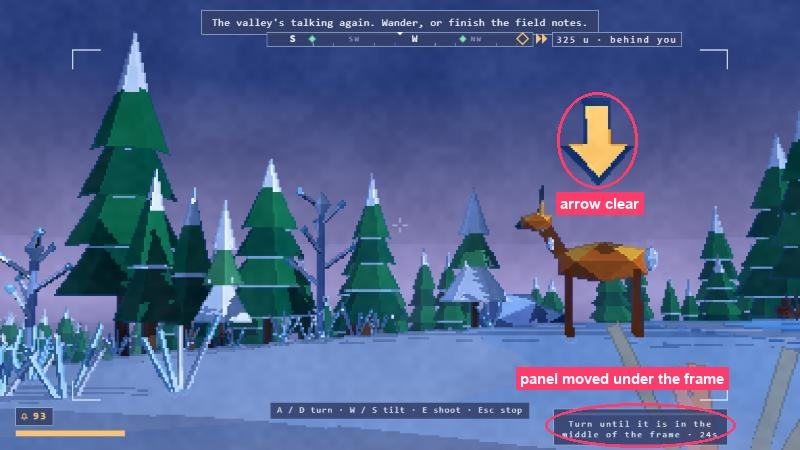
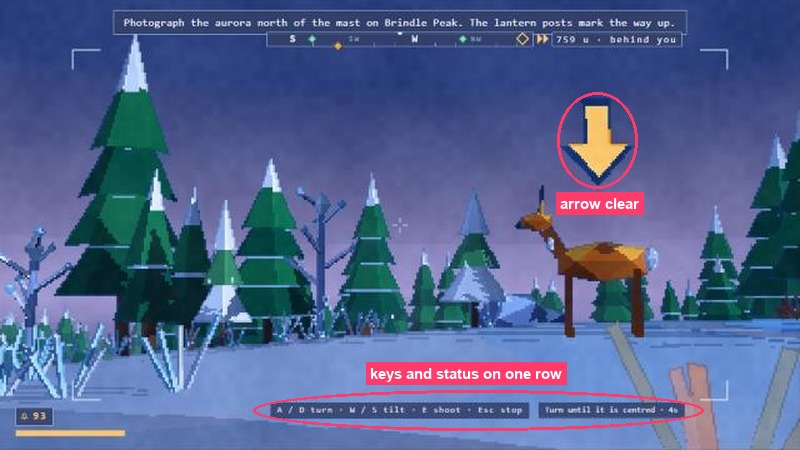
Round-6 picks, part two: a real caught fish, Gus's brass bell with an aiming ring, photo panel on the keys row
- The catch is a fish silhouette (rounded body, forked tail, tall back fin) about 1.5 units long, in
  natural colours: darker bodies, one fin colour each. It was a diamond and a cone in pale grey.
- The hamlet bell is a brass bell turned from a profile, hung from the crossbar; while aiming Bell Ring
  a lit ring stands round it. The start crate and flag move to the other side of the throw line,
  where they no longer stand in front of the bell.
- In photo mode the activity panel sits on the keys bar's row at its height, one line; "Turn until it
  is centred" replaces the longer turn line so every photo status fits beside the bar at 960 wide.

diff --git a/review/round-6/index.html b/review/round-6/index.html
@@ -50,45 +50,18 @@
 </head>
 <body>
 <main>
-  <h1>Round 6 look: your answers, acted on</h1>
-  <p class="lede">Real captures from the game at 960×540. Pink circles mark where to look. "After" is built into the game; "Proposed" is a live mock running in the game, not built yet. Click any image to enlarge.</p>
+  <h1>Round 6 look: all seven settled</h1>
+  <p class="lede">Real captures from the game at 960×540. Pink circles mark where to look. Every "After" is built into the game and pushed. Click any image to enlarge.</p>
 
   <div class="status">
-    <div><b>Built</b>1 panel no longer covers the arrow · 3 bigger gem · 4 photo frame hidden while shooting</div>
-    <div><b>Needs your eye</b>5 the fish (new mock) · 6 the bell (new mock, with a correction)</div>
-    <div><b>Closed</b>2 glow: proposal withdrawn · 7 ridge: left as is</div>
+    <div><b>Built</b>1 panel on the keys row · 3 bigger gem · 4 photo frame hidden · 5 fish shape · 6 brass bell + ring</div>
+    <div><b>Closed</b>2 glow: kept as it was · 7 ridge: left as is</div>
+    <div><b>Needs your eye</b>Nothing</div>
   </div>
 
-  <h2>Needs your eye</h2>
-
   <section class="item">
-    <div class="head"><h3>5. The fish you catch</h3><span class="where">Creek Pool, Pinewind, a grayling</span></div>
-    <p class="what">You're right that none of the old shots looked like a fish. That's the problem. When you land one, it hangs from the line beside Pip, but it's built from a stretched diamond and a cone for a tail, in one flat grey. It reads as two loose shapes. (The white ring is the ripple on the water.) The last mock only changed the colours, so it still didn't look like a fish.</p>
-    <div class="grid">
-      <figure><img src="p5-now.jpg" alt=""><figcaption>Now <span>— diamond + cone, flat grey</span></figcaption></figure>
-      <figure><img src="p5-proposed.jpg" alt=""><figcaption>Proposed <span>— fish silhouette: rounded body, forked tail, tall back fin, eye</span></figcaption></figure>
-    </div>
-    <div class="ask"><b>My pick: Proposed.</b> Every fish gets the same shape, in its own colours: a darker body with one strong fin colour (char orange, pike green, the ghost trout pale with a teal fin). I'd also shrink it about a fifth, since it's a little big beside Pip.</div>
-  </section>
-
-  <section class="item">
-    <div class="head"><h3>6. The bell you throw at</h3><span class="where">Bell Ring, Hamlet square</span></div>
-    <p class="fix"><b>Correction:</b> last time I said the bell was the red shape. It isn't. The red triangle is the Bell Ring's start flag. The bell is the tiny yellow dot under the crossbar at the top of the post, and the flag stands right in front of it.</p>
-    <p class="what"><b>What Bell Ring is:</b> a throwing game in the square. You turn with A/D (the dotted line shows your throw) and press E to throw a snowball at the bell; one hit rings it. The critic couldn't tell what they were aiming at.</p>
-    <div class="grid">
-      <figure><img src="p6-now.jpg" alt=""><figcaption>Now <span>— bell is a dot; flag in front of it</span></figcaption></figure>
-      <figure><img src="p6-a.jpg" alt=""><figcaption>Proposed A <span>— a real brass bell, bigger; flag moved aside</span></figcaption></figure>
-      <figure><img src="p6-b.jpg" alt=""><figcaption>Proposed B <span>— A, plus a lit ring round the bell</span></figcaption></figure>
-    </div>
-    <p class="what" style="margin-top:10px"><b>About the ring:</b> it shows only while you're playing Bell Ring, to say "this is the target", and goes away when you stop. Walking round the square, you'd just see the brass bell. The snowman build already uses a lit ring the same way.</p>
-    <div class="ask"><b>My pick: B.</b> A alone makes the bell readable; the ring makes it unmissable at dusk, when the bell is darkest.</div>
-  </section>
-
-  <h2>Built</h2>
-
-  <section class="item">
-    <div class="head"><h3>1. Activity panel clipping the photo arrow</h3><span class="where">Hoarfrost Glade photo, Pinewind</span></div>
-    <p class="what">While you aim a photo, the panel now sits under the frame's bottom-right corner and shows only the running line. "Esc stop" moved onto the keys line. The frame itself is clear.</p>
+    <div class="head"><h3>1. Activity panel while taking a photo</h3><span class="where">Hoarfrost Glade photo, Pinewind</span></div>
+    <p class="what">The panel now sits on the same row as the keys bar, at the same height, right beside it. It shows only the running line; "Esc stop" is on the keys bar. To fit one line at this window size, "Turn until it is in the middle of the frame" became "Turn until it is centred".</p>
     <div class="grid">
       <figure><img src="p1-before.jpg" alt=""><figcaption>Before</figcaption></figure>
       <figure><img src="p1-after.jpg" alt=""><figcaption>After</figcaption></figure>
@@ -96,8 +69,25 @@
   </section>
 
   <section class="item">
+    <div class="head"><h3>5. The fish you catch</h3><span class="where">Creek Pool, Pinewind, a grayling</span></div>
+    <p class="what">A real fish shape (rounded body, forked tail, tall back fin, eye), about a third smaller than the mock so it sits below Pip's size. Natural colours, no purple: each fish has a darker body and one fin colour of its own. The grayling is grey with its rose back fin, the char brown with an orange fin, the pike green, the smelt silver-blue. The ghost trout stays pale with a teal fin.</p>
+    <div class="grid">
+      <figure><img src="p5-now.jpg" alt=""><figcaption>Before</figcaption></figure>
+      <figure><img src="p5-after.jpg" alt=""><figcaption>After</figcaption></figure>
+    </div>
+  </section>
+
+  <section class="item">
+    <div class="head"><h3>6. The bell you throw at</h3><span class="where">Bell Ring, Hamlet square</span></div>
+    <p class="what">Option B as you picked: a brass bell hung from the crossbar, a lit ring round it only while you're playing Bell Ring, and the start flag moved to the other side so it no longer stands in front of the bell.</p>
+    <div class="grid">
+      <figure><img src="p6-now.jpg" alt=""><figcaption>Before</figcaption></figure>
+      <figure><img src="p6-after.jpg" alt=""><figcaption>After</figcaption></figure>
+    </div>
+  </section>
+
+  <section class="item">
     <div class="head"><h3>3. Bigger green gem over things to do</h3><span class="where">Hamlet, dusk</span></div>
-    <p class="what">Built as you picked: 1.7× the size and brighter.</p>
     <div class="grid">
       <figure><img src="p3-before.jpg" alt=""><figcaption>Before</figcaption></figure>
       <figure><img src="p3-after.jpg" alt=""><figcaption>After</figcaption></figure>
@@ -106,27 +96,15 @@
 
   <section class="item">
     <div class="head"><h3>4. Photo spot's frame post hidden while shooting</h3><span class="where">Aurora photo, Brindle Peak</span></div>
-    <p class="what">Built for every photo spot. The post comes back as soon as the photo closes. (The panel has also moved out of the frame, from item 1.)</p>
     <div class="grid">
       <figure><img src="aurora-now.jpg" alt=""><figcaption>Before</figcaption></figure>
       <figure><img src="aurora-built.jpg" alt=""><figcaption>After</figcaption></figure>
     </div>
   </section>
 
-  <h2>Closed</h2>
-
   <section class="item">
-    <div class="head"><h3>2. Pip's lantern glow</h3></div>
-    <p class="what">You're right: the proposal looked the same as the current glow at normal distance. The face hotspot it was meant to fix doesn't show from the usual camera angle either, so I've dropped it. The glow stays as built.</p>
-    <div class="grid">
-      <figure><img src="glow-before.jpg" alt=""><figcaption>Before rounds 5–6</figcaption></figure>
-      <figure><img src="glow-after.jpg" alt=""><figcaption>Now (kept)</figcaption></figure>
-    </div>
-  </section>
-
-  <section class="item">
-    <div class="head"><h3>7. Windscar Ridge face</h3></div>
-    <p class="what">Left as is.</p>
+    <div class="head"><h3>2. Pip's lantern glow · 7. Windscar Ridge face</h3></div>
+    <p class="what">Both left as they are.</p>
   </section>
 </main>
 <dialog id="big"><img alt=""></dialog>

diff --git a/src/game/world/activityMarkers.ts b/src/game/world/activityMarkers.ts
@@ -66,6 +66,44 @@ function mittenGeometry(): THREE.BufferGeometry {
   return new THREE.ExtrudeGeometry(s, { depth: 0.16, bevelEnabled: false }).translate(0, 0, -0.08);
 }
 
+/**
+ * The catch's size against its 1.9 marker scale: about one and a half units nose to tail, smaller than
+ * Pip. A diamond and a cone used to stand in for it and read as two loose shapes (director, round 6 look).
+ */
+const FISH_K = 0.75;
+
+/** A fish side-on: rounded body, narrow wrist, forked tail. Nose along +Z, flanks facing +-X. */
+function fishGeometry(): THREE.BufferGeometry {
+  const s = new THREE.Shape();
+  s.moveTo(0.5, 0);
+  s.quadraticCurveTo(0.44, 0.17, 0.15, 0.2);
+  s.quadraticCurveTo(-0.14, 0.2, -0.32, 0.06);
+  s.lineTo(-0.52, 0.22);
+  s.lineTo(-0.45, 0);
+  s.lineTo(-0.52, -0.2);
+  s.lineTo(-0.32, -0.05);
+  s.quadraticCurveTo(-0.1, -0.17, 0.15, -0.16);
+  s.quadraticCurveTo(0.42, -0.13, 0.5, 0);
+  return new THREE.ExtrudeGeometry(s, {
+    depth: 0.06, bevelEnabled: true, bevelThickness: 0.05, bevelSize: 0.025, bevelSegments: 2, curveSegments: 6,
+  }).translate(0, 0, -0.03).scale(FISH_K, FISH_K, FISH_K).rotateY(-Math.PI / 2);
+}
+
+/**
+ * The tall back fin, in the fish's accent colour. catchMarkers places it 0.55 behind the body's middle
+ * (where the old tail cone hung), so it is drawn 0.55 forward of its own origin to sit on the back.
+ */
+function finGeometry(): THREE.BufferGeometry {
+  const s = new THREE.Shape();
+  s.moveTo(0.2, 0.15);
+  s.lineTo(0.1, 0.44);
+  s.lineTo(-0.14, 0.38);
+  s.lineTo(-0.2, 0.14);
+  s.closePath();
+  return new THREE.ExtrudeGeometry(s, { depth: 0.03, bevelEnabled: false })
+    .translate(0, 0, -0.015).scale(FISH_K, FISH_K, FISH_K).rotateY(-Math.PI / 2).translate(0, 0, 0.55);
+}
+
 interface Prototype {
   geometry: THREE.BufferGeometry;
   color: string;
@@ -92,8 +130,8 @@ const PROTOTYPES: Readonly<Record<MarkerShape | TransientLook, Prototype>> = {
   // A crest light for the kite: big enough to read at twenty metres, a cold blue until it is cleared.
   beacon: { geometry: new THREE.OctahedronGeometry(0.42, 0), color: PALETTE.LANTERN, dim: PALETTE.SNOW_NIGHT, lift: 0 },
   // A caught fish, nose along +Z; its colours come from the journal's own table (spec.color).
-  fish: { geometry: new THREE.OctahedronGeometry(1, 0).scale(0.12, 0.26, 0.5), color: PALETTE.ROCK_LT, lift: 0 },
-  fin: { geometry: new THREE.ConeGeometry(0.24, 0.32, 3).rotateX(-Math.PI / 2).scale(0.3, 1, 1), color: PALETTE.ROCK_MID, lift: 0 },
+  fish: { geometry: fishGeometry(), color: PALETTE.ROCK_LT, lift: 0 },
+  fin: { geometry: finGeometry(), color: PALETTE.ROCK_MID, lift: 0 },
   // A wind line rising in the kite's lift: thin and upright, a blue that reads on snow and on sky.
   streak: { geometry: new THREE.BoxGeometry(0.1, 1.3, 0.1), color: PALETTE.SNOW_NIGHT, dim: PALETTE.SNOW_SH, lift: 0 },
   // A ring laid flat on the snow round a photo's subject, so "it" is the thing standing in it.

diff --git a/src/styles/photo.css b/src/styles/photo.css
@@ -37,16 +37,20 @@
 #ui:has(.ui-finder:not([hidden])) .ui-hud__next { visibility: hidden; }
 
 /* The activity panel leaves the frame too: at the top right it covered the subject's arrow whenever the
-   subject stood up and to the right (director, round 6 look). Under the frame's bottom-right corner it
-   keeps only the running line; the name is on the prompt you pressed, and Esc joins the keys. */
+   subject stood up and to the right (director, round 6 look). It joins the keys bar on the same row,
+   same height, starting just right of it (the bar is ~310px wide), and keeps only the running line;
+   the name is on the prompt you pressed, Esc is on the keys, and the timer runs along its bottom edge.
+   Every photo line fits on one row beside the bar at 960 wide. */
 #ui:has(.ui-finder:not([hidden])) .ui-activity {
-  top: auto; right: 9%; bottom: 6px; min-width: 0; max-width: 210px; padding: 4px 10px 5px;
+  top: auto; right: auto; left: calc(50% + 166px); bottom: calc(11% - 22px);
+  min-width: 0; max-width: none; padding: 2px 8px; border: 0; text-align: left;
 }
 #ui:has(.ui-finder:not([hidden])) .ui-activity__kicker,
 #ui:has(.ui-finder:not([hidden])) .ui-activity__name,
 #ui:has(.ui-finder:not([hidden])) .ui-activity__hint,
 #ui:has(.ui-finder:not([hidden])) .ui-activity__foot { display: none; }
-#ui:has(.ui-finder:not([hidden])) .ui-activity__label { margin-top: 4px; font-size: 10px; line-height: 1.3; }
+#ui:has(.ui-finder:not([hidden])) .ui-activity__label { margin: 0; font-size: 10px; line-height: 1.55; letter-spacing: 0; white-space: nowrap; }
+#ui:has(.ui-finder:not([hidden])) .ui-activity__track { position: absolute; left: 0; right: 0; bottom: 0; height: 2px; }
 
 /* Under the frame's bottom edge: over its top edge, the keys sat on the compass (critic round 6). */
 .ui-finder__keys {

diff --git a/src/data/fish.ts b/src/data/fish.ts
@@ -6,12 +6,14 @@
 import type { FishDef } from '../core/contracts';
 
 export const FISH: readonly FishDef[] = [
-  { id: 'smelt', name: 'Silver Smelt', rarity: 'common', value: 3, body: '#9fb4c2', accent: '#e6eef2' },
-  { id: 'char', name: 'Arctic Char', rarity: 'common', value: 4, body: '#8f6a5a', accent: '#e8a06a' },
-  { id: 'grayling', name: 'Grayling', rarity: 'common', value: 5, body: '#7d8a94', accent: '#b9c9d2' },
-  { id: 'burbot', name: 'Burbot', rarity: 'uncommon', value: 8, body: '#6b6350', accent: '#c9b98a' },
-  { id: 'pike', name: 'Lake Pike', rarity: 'rare', value: 14, body: '#4f6b52', accent: '#a8c08a' },
-  { id: 'ghost-trout', name: 'Ghost Trout', rarity: 'rare', value: 16, body: '#c9d6dd', accent: '#f2f8fa' },
+  // Bodies dark enough to stand off snow and ice, each with one fin colour of its own: pale grey bodies
+  // with near-white fins vanished against the pool (critic round 7). The ghost trout stays pale on purpose.
+  { id: 'smelt', name: 'Silver Smelt', rarity: 'common', value: 3, body: '#7f98a8', accent: '#d2e2ec' },
+  { id: 'char', name: 'Arctic Char', rarity: 'common', value: 4, body: '#5e4a3e', accent: '#e8763a' },
+  { id: 'grayling', name: 'Grayling', rarity: 'common', value: 5, body: '#5a646e', accent: '#b0566e' },
+  { id: 'burbot', name: 'Burbot', rarity: 'uncommon', value: 8, body: '#5b5240', accent: '#c9b98a' },
+  { id: 'pike', name: 'Lake Pike', rarity: 'rare', value: 14, body: '#41603f', accent: '#b4c98a' },
+  { id: 'ghost-trout', name: 'Ghost Trout', rarity: 'rare', value: 16, body: '#b9c9d2', accent: '#6fc8c0' },
 ];
 
 /**

diff --git a/src/game/world/landmarks.ts b/src/game/world/landmarks.ts
@@ -21,6 +21,16 @@ import { icedBoat } from './boat';
 import type { Collider } from '../../core/player/collide';
 import { BIRD_BULK } from './birdBulk';
 
+/**
+ * Gus's bell: a brass bell's profile turned round its axis, mouth down, about 0.9 tall. It was a small
+ * lantern-coloured diamond, and from the throwing spot it read as a light on the post, not a bell.
+ */
+const BELL_SHAPE = new THREE.LatheGeometry(
+  ([[0, 0.55], [0.1, 0.54], [0.19, 0.47], [0.23, 0.3], [0.26, 0.08], [0.33, -0.06], [0.42, -0.14], [0.42, -0.17], [0, -0.17]] as const)
+    .map(([r, y]) => new THREE.Vector2(r, y)),
+  8,
+).toNonIndexed();
+
 export const LANDMARKS: readonly { id: string; x: number; z: number }[] = [
   { id: 'station', x: -352, z: 352 },
   { id: 'trucknow', x: -300, z: 300 },
@@ -151,7 +161,8 @@ function hamlet(sampler: TerrainSampler, x: number, z: number): THREE.Group {
   b.cyl(0, -0.2, 0, 0.18, 3.4, 'WOOD_DK');
   b.box(0, 3.2, 0, 1.1, 0.16, 1.1, 'WOOD_DK', 'SNOW_LT');
   b.glow();
-  b.add(GEO.octa, propMatrix(0, 2.85, 0, 0.3, 0.34, 0.3), 'LANTERN');
+  // Hung from the crossbar, its middle at the throw target's height (activities/throwSetups.ts BELL).
+  b.add(BELL_SHAPE, propMatrix(0, 2.5, 0, 1.3, 1.3, 1.3), 'AMBER');
   b.glow(false);
   const bell = b.finish('hamlet-bell');
   bell.position.set(x, sampler.heightAt(x, z), z);

diff --git a/src/game/activities/startProps.ts b/src/game/activities/startProps.ts
@@ -52,7 +52,8 @@ const BY_ID: Readonly<Record<string, StartProp>> = {
   'kettles-steam-photo': { look: 'start-frame', out: 1.8, side: -1, alongAim: true },
   'kettles-dam-build': { look: 'pennant', out: 2.4, side: 1 },
   'hamlet-snowman': { look: 'start-shovel', out: 4, side: -1 },
-  'hamlet-bell-throw': { look: 'start-snowballs', out: 2.6, side: -1 },
+  // Right of the line to the bell: on the left its pole stood between the camera and the bell.
+  'hamlet-bell-throw': { look: 'start-snowballs', out: 2.6, side: 1 },
   'hamlet-market-photo': { look: 'start-frame', out: 1.8, side: 1, alongAim: true },
   'ridge-kite': { look: 'start-kite', out: 3.6, side: -1 },
   'ridge-lantern-ascent': { look: 'pennant', out: 2.2, side: -1 },

diff --git a/src/game/activities/targets.ts b/src/game/activities/targets.ts
@@ -181,6 +181,12 @@ export class TargetActivity implements ActivityInstance {
         });
       });
     }
+    // While aiming at the bell, a lit ring round it says which thing on the post is the target: from the
+    // throwing spot the bell is a small shape under a crossbar (critic round 7; the director chose this).
+    if (this.bell && this.stage === 'throwing' && this.rang < 0) {
+      const b = this.bell.pos;
+      out.push({ shape: 'ring', look: 'pulse', x: b.x, y: b.y - 0.1, z: b.z, yaw: Math.atan2(this.feet.x - b.x, this.feet.z - b.z), size: 0.95 });
+    }
     if (this.bell && this.rang >= 0 && this.rang < 1.2) {
       const b = this.bell.pos;
       const toward = Math.atan2(this.feet.x - b.x, this.feet.z - b.z);

diff --git a/src/game/activities/fishingLooks.ts b/src/game/activities/fishingLooks.ts
@@ -84,7 +84,8 @@ export function catchMarkers(fish: FishDef, float: Vec3, stand: Vec3, age: numbe
   const pitch = k < 1 ? -1.1 * (1 - k) : -0.2;
   const back = { x: -Math.sin(yaw) * Math.cos(pitch), y: Math.sin(pitch), z: -Math.cos(yaw) * Math.cos(pitch) };
   const s = 1.9;
-  const eye = 0.3 * s;
+  // Just behind the nose of the fish shape (activityMarkers.ts), which ends 0.36 s forward.
+  const eye = 0.24 * s;
   // Not every catch is a fish: Hollis's mitten hangs off the hook by its cuff, dripping.
   if (fish.id === 'mitten') {
     return [

diff --git a/src/game/activities/photo.ts b/src/game/activities/photo.ts
@@ -172,7 +172,7 @@ export class PhotoActivity implements ActivityInstance {
       ? 'Centred — press E'
       : this.hint === 'tooClose' ? 'Too close. Step back, then press E'
         : this.hint === 'tooFar' ? 'Too far. Step closer, then press E'
-          : 'Turn until it is in the middle of the frame';
+          : 'Turn until it is centred';
     return { label, fraction: null, urgent: this.hint === 'aim' };
   }
 
